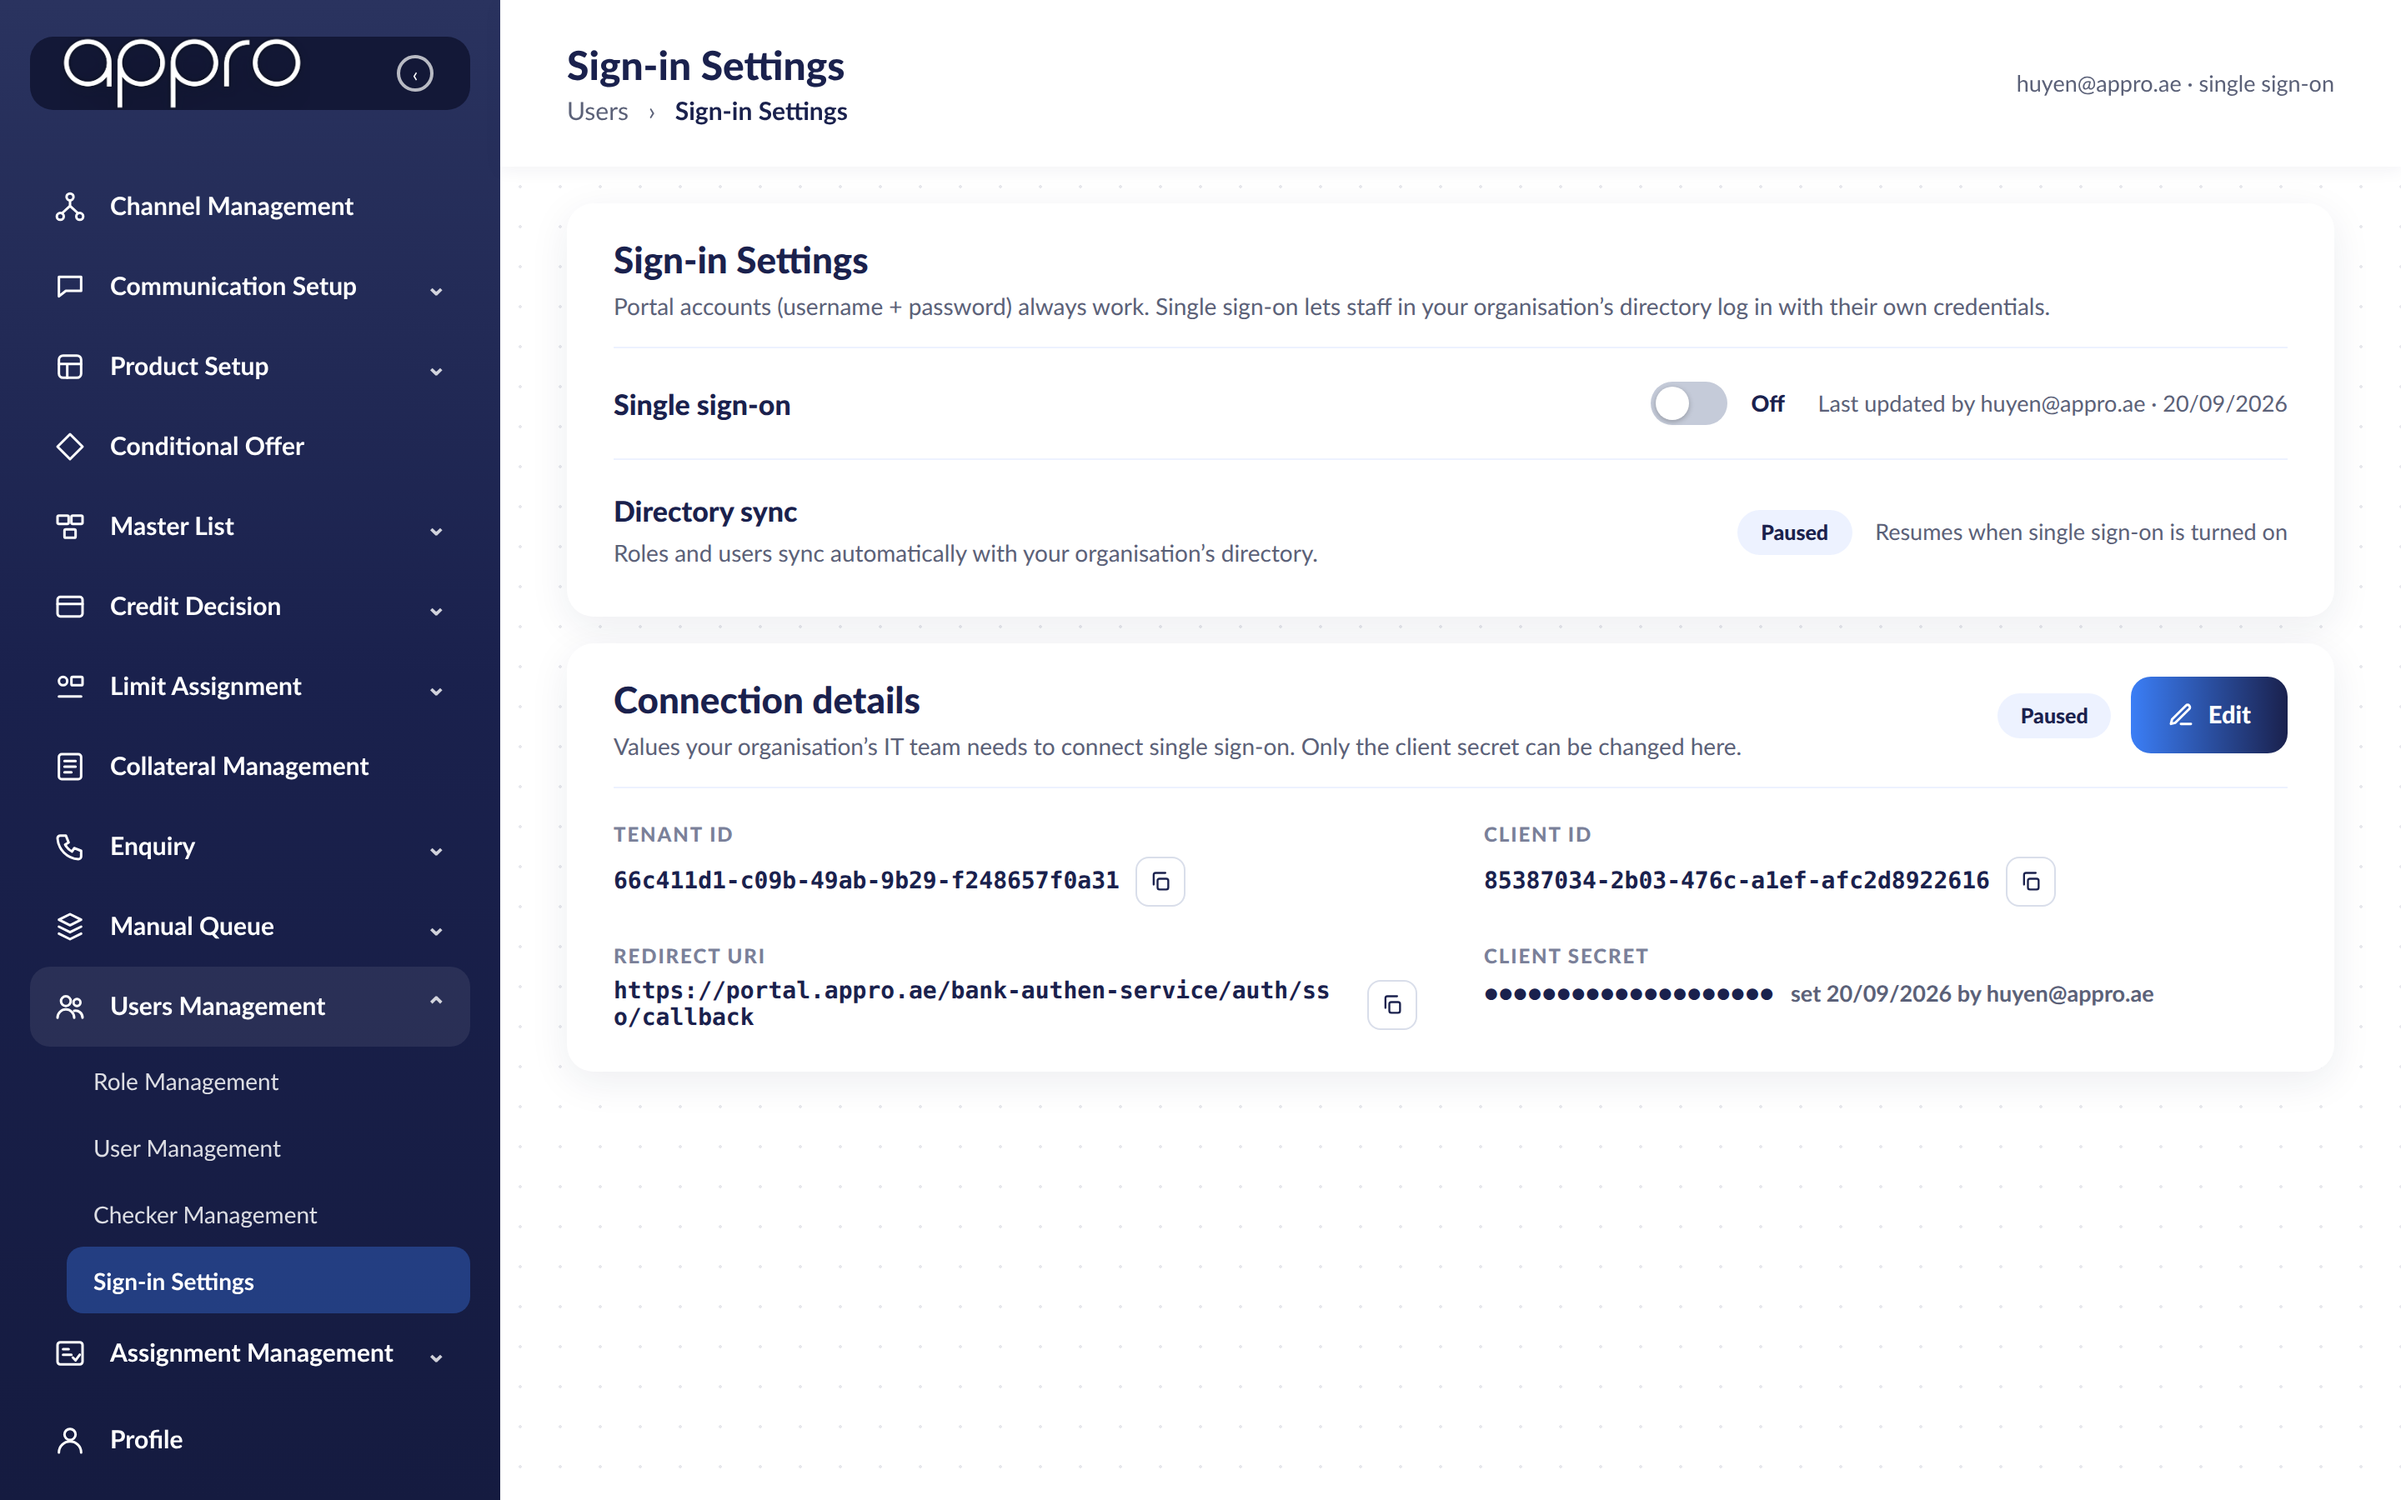
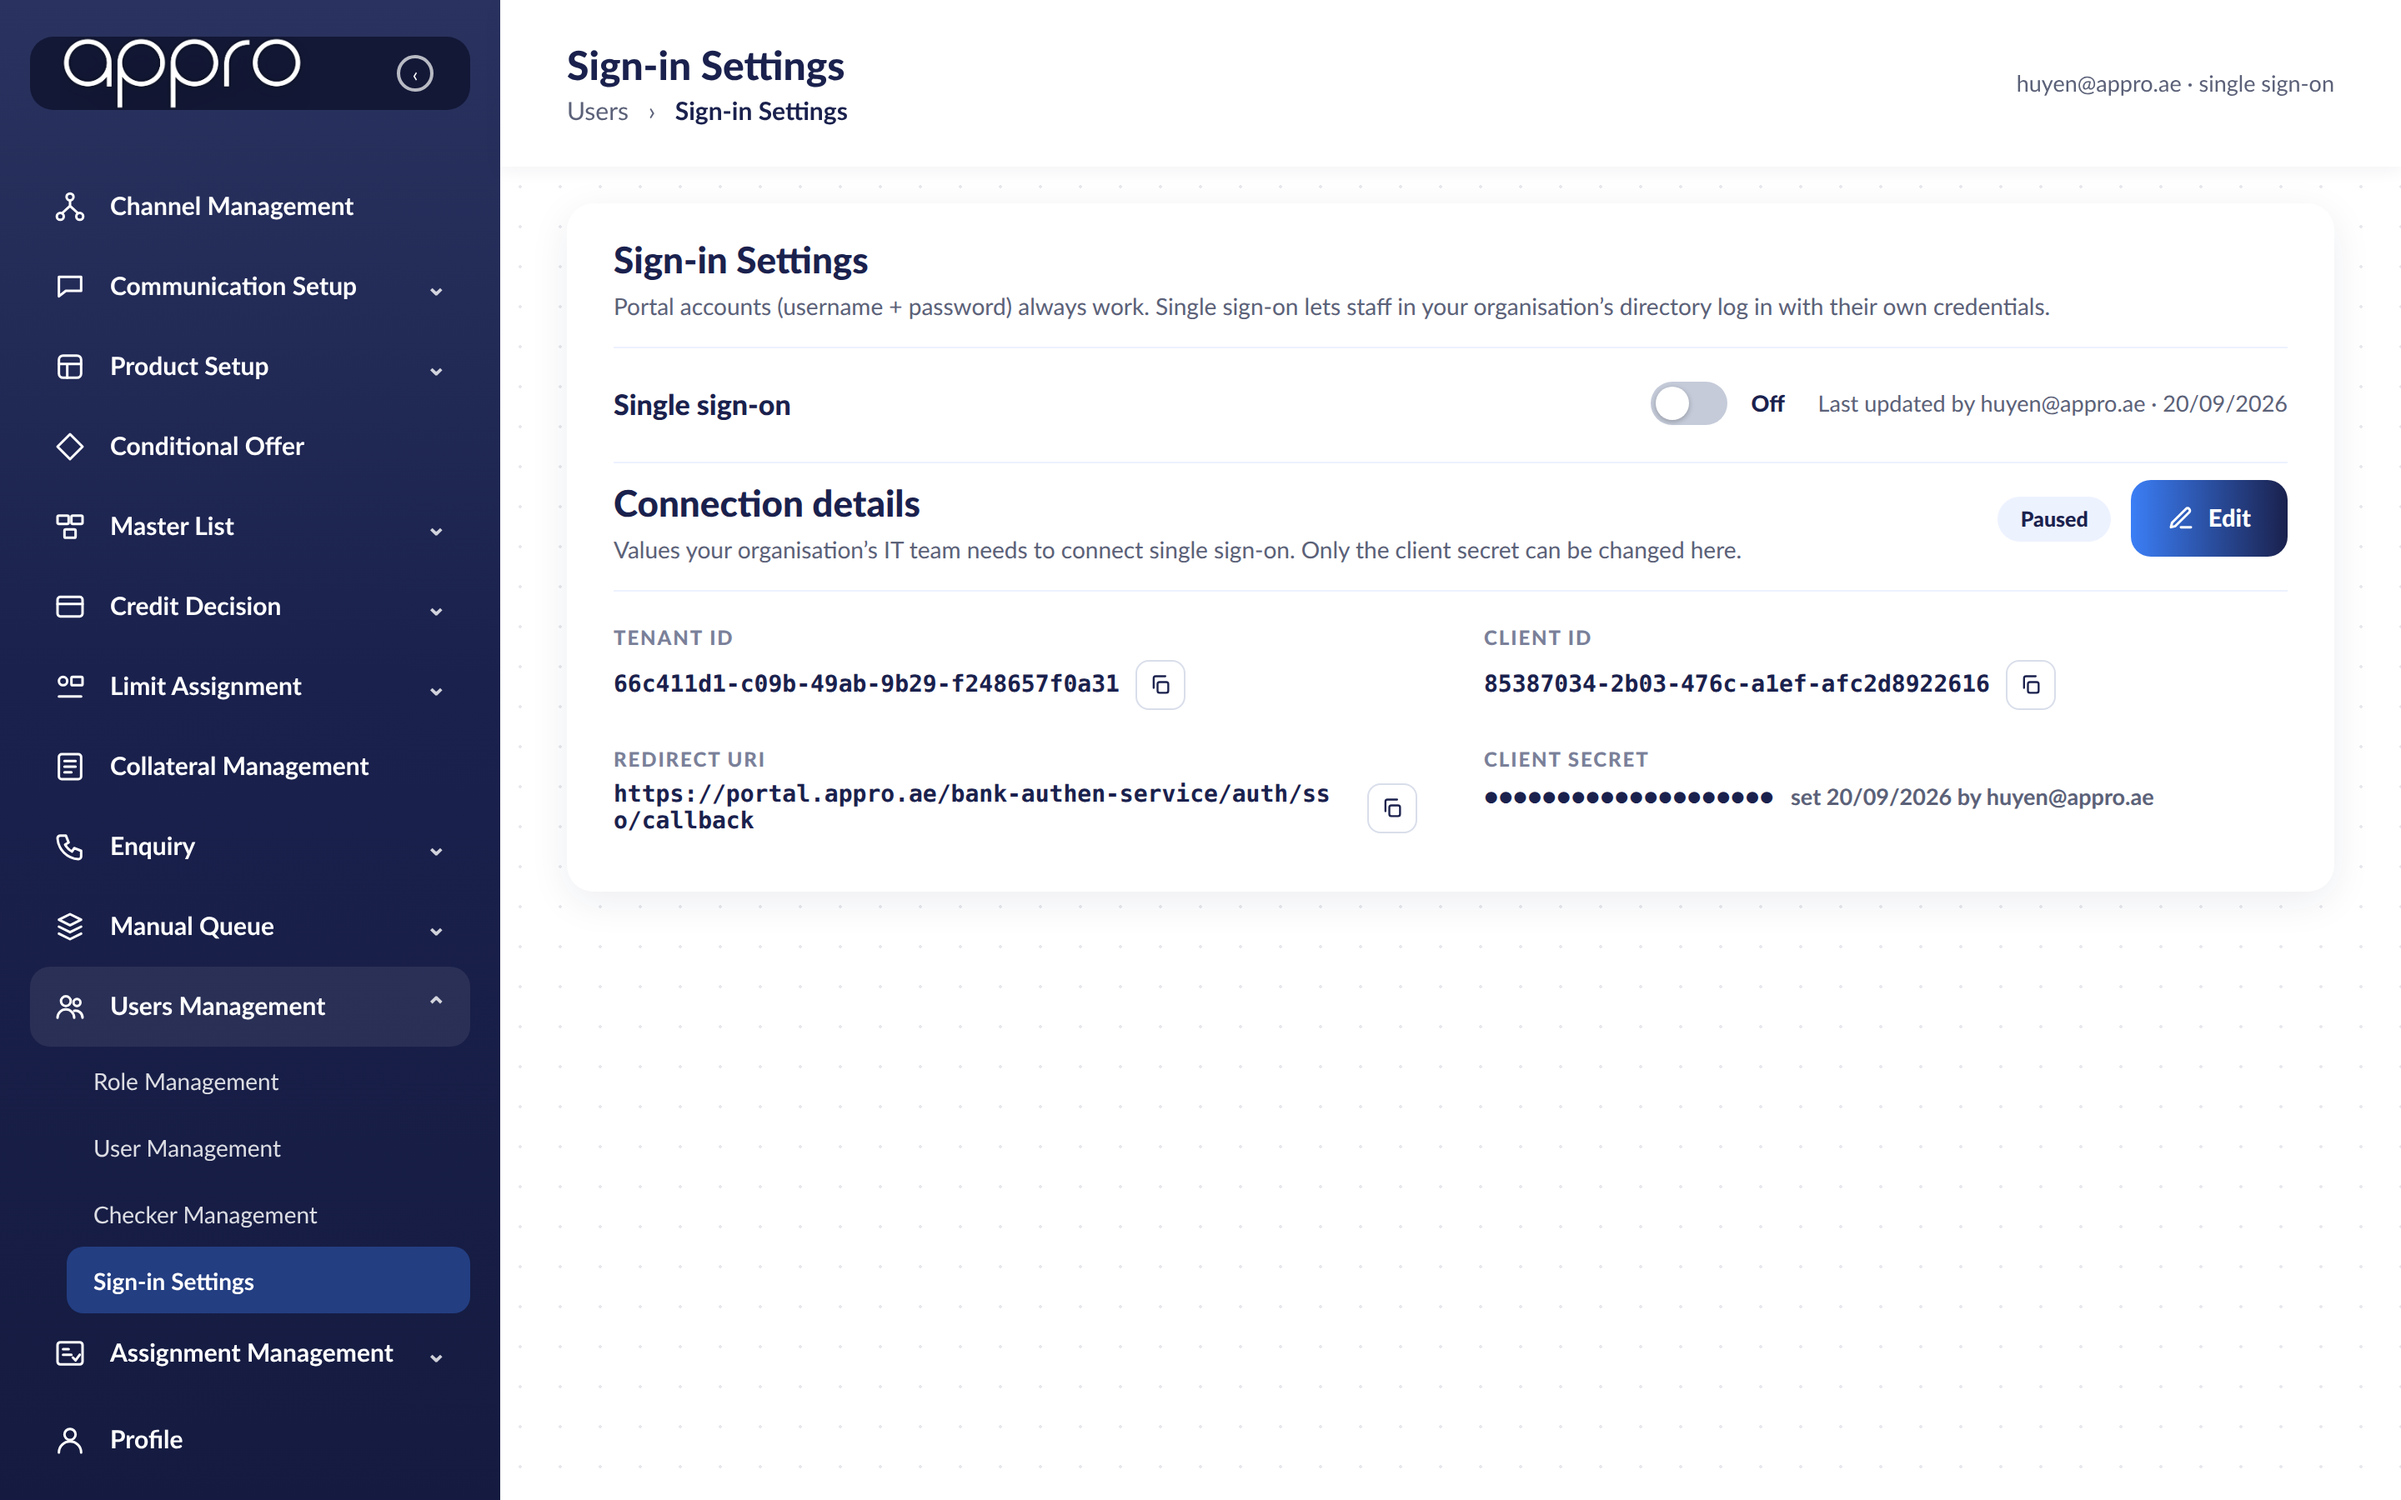
SSO prototype: drop the Directory sync row, merge Sign-in Settings into one card
Claude-Session: https://claude.ai/code/session_01WLahjovvzGmaLqPdFzgAEY

diff --git a/sso-prototype/index.html b/sso-prototype/index.html
@@ -171,6 +171,9 @@ h1{margin:0;text-align:center;font-size:clamp(22px,4vw,30px);font-weight:800;tex
 .idpav{width:34px;height:34px;border-radius:50%;background:linear-gradient(135deg,#3b7ef6,#1a214d);color:#fff;display:flex;align-items:center;justify-content:center;font-weight:800;flex-shrink:0}
 .idpn{display:block;font-weight:800;font-size:14.5px}
 .idpe{display:block;font-size:13px;color:var(--ink2);overflow:hidden;text-overflow:ellipsis}
+.sect{border-top:1.5px solid var(--lav);margin-top:2px;padding-top:10px}
+.panel{padding-bottom:18px}
+.content{justify-content:flex-start}
 </style></head><body style="margin:0">
 
 <!-- ===================== LOGIN ===================== -->
@@ -237,7 +240,7 @@ h1{margin:0;text-align:center;font-size:clamp(22px,4vw,30px);font-weight:800;tex
 
 <!-- demo panel -->
 <aside class="demo" id="demo" aria-label="Prototype controls">
-  <div class="dh"><span>Prototype controls · build 11 · 20 Sep</span><button type="button" id="demoToggle" aria-label="Expand">+ test accounts</button></div>
+  <div class="dh"><span>Prototype controls · build 12 · 20 Sep</span><button type="button" id="demoToggle" aria-label="Expand">+ test accounts</button></div>
   <div class="db hidden" id="demoBody"></div>
 </aside>
 
@@ -359,15 +362,12 @@ function renderSettings(c){
   const on=S.sso==='on',pend=S.pending;
   c.innerHTML=`<section class="panel">
     <div class="ph"><div><h3>Sign-in Settings</h3><div class="desc muted">Portal accounts (username + password) always work. Single sign-on lets staff in your organisation’s directory log in with their own credentials.</div></div></div>
-    <div class="row"><div class="t"><h4>Single sign-on</h4></div><div class="r" id="ssoRow"></div></div>
-    <div class="row"><div class="t"><h4>Directory sync</h4><p>Roles and users sync automatically with your organisation’s directory.</p></div><div class="r" id="syncRow"></div></div>
-  </section>
-  <section class="panel" id="connPanel"></section>`;
+    <div class="row" style="border-bottom:0"><div class="t"><h4>Single sign-on</h4></div><div class="r" id="ssoRow"></div></div>
+    <div id="connPanel" class="sect"></div>
+  </section>`;
   $('#ssoRow').innerHTML=`<button type="button" class="sw ${on?'on':''} ${pend?'dis':''}" id="ssoSwitch" role="switch" aria-checked="${on}" aria-label="Single sign-on" ${pend?'disabled':''}><span class="knob"></span></button><span class="small" style="font-weight:800;min-width:26px">${on?'On':'Off'}</span>`+
     (pend?`<span class="small muted">${pill('p-yel','Pending Checker approval · '+pend.id)}</span>`
          :`<span class="small muted">Last updated by ${S.updatedBy||'longlh@appro.ae'} · ${S.since||'01/09/2026'}</span>`);
-  $('#syncRow').innerHTML= on?`<span class="pill p-green">Automatic</span><span class="small muted">Last sync ${S.lastSync}</span>`
-                             :`<span class="pill p-lav">Paused</span><span class="small muted">Resumes when single sign-on is turned on</span>`;
   renderConn();
   const t=$('#ssoSwitch');if(t&&!pend)t.onclick=()=>openModal(on?'off':'on');
   document.querySelectorAll('[data-user]').forEach(x=>x.onclick=()=>go('user',x.dataset.user));
